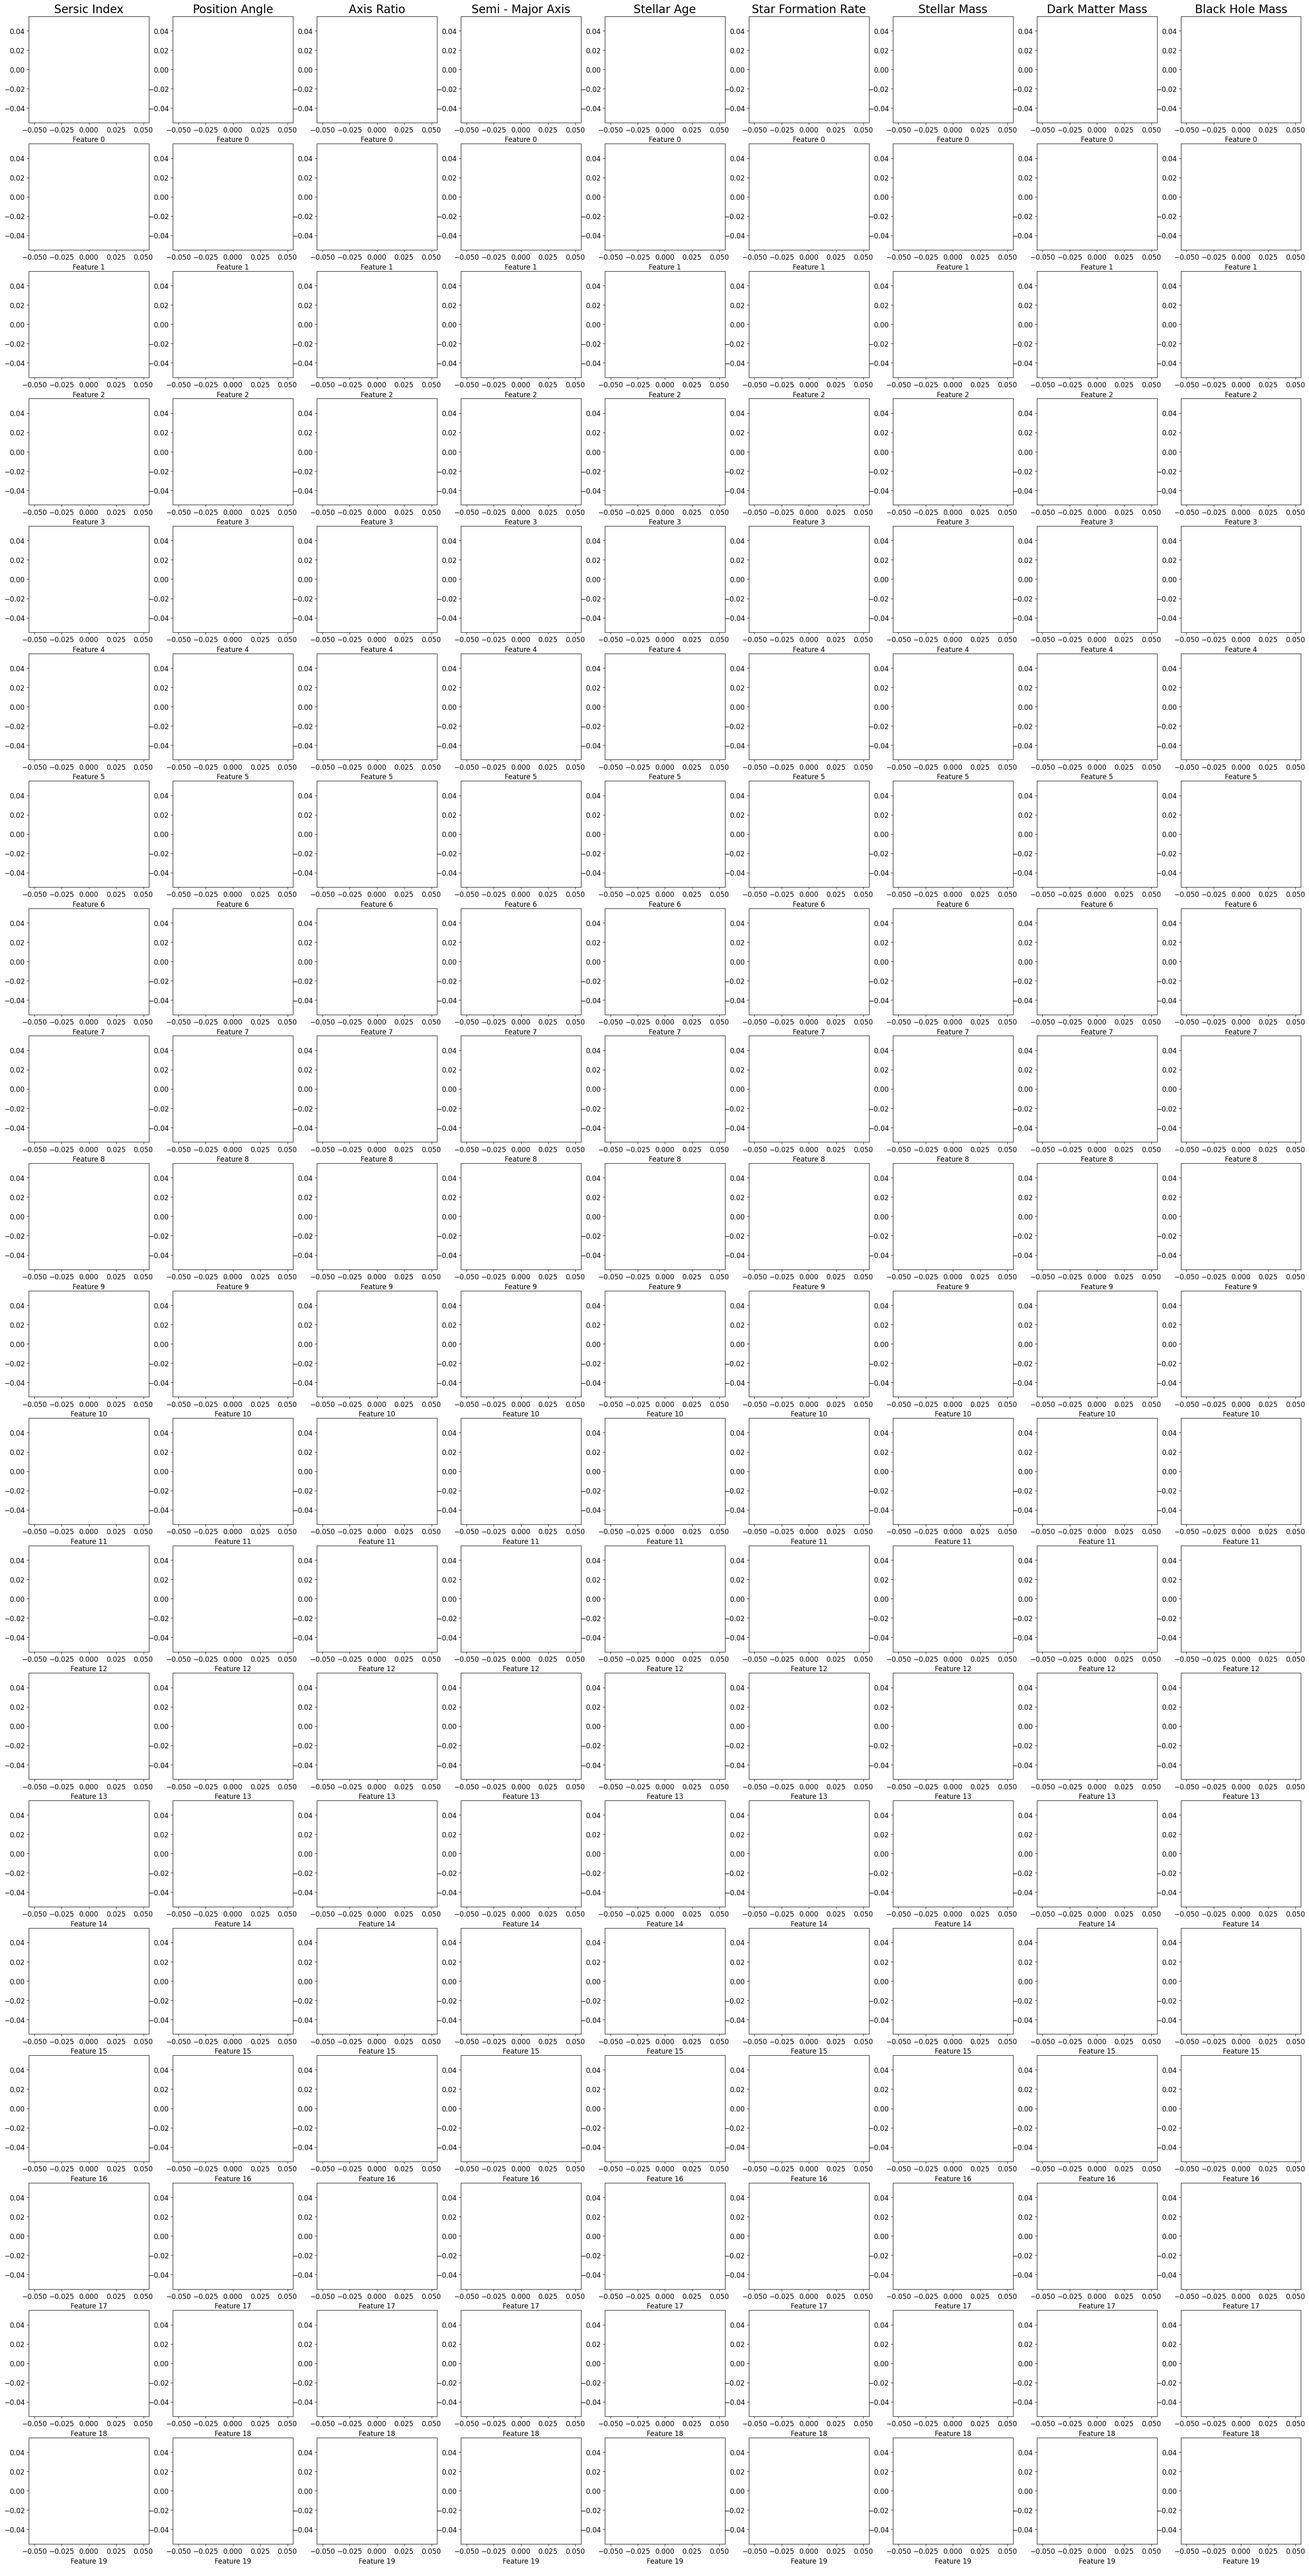
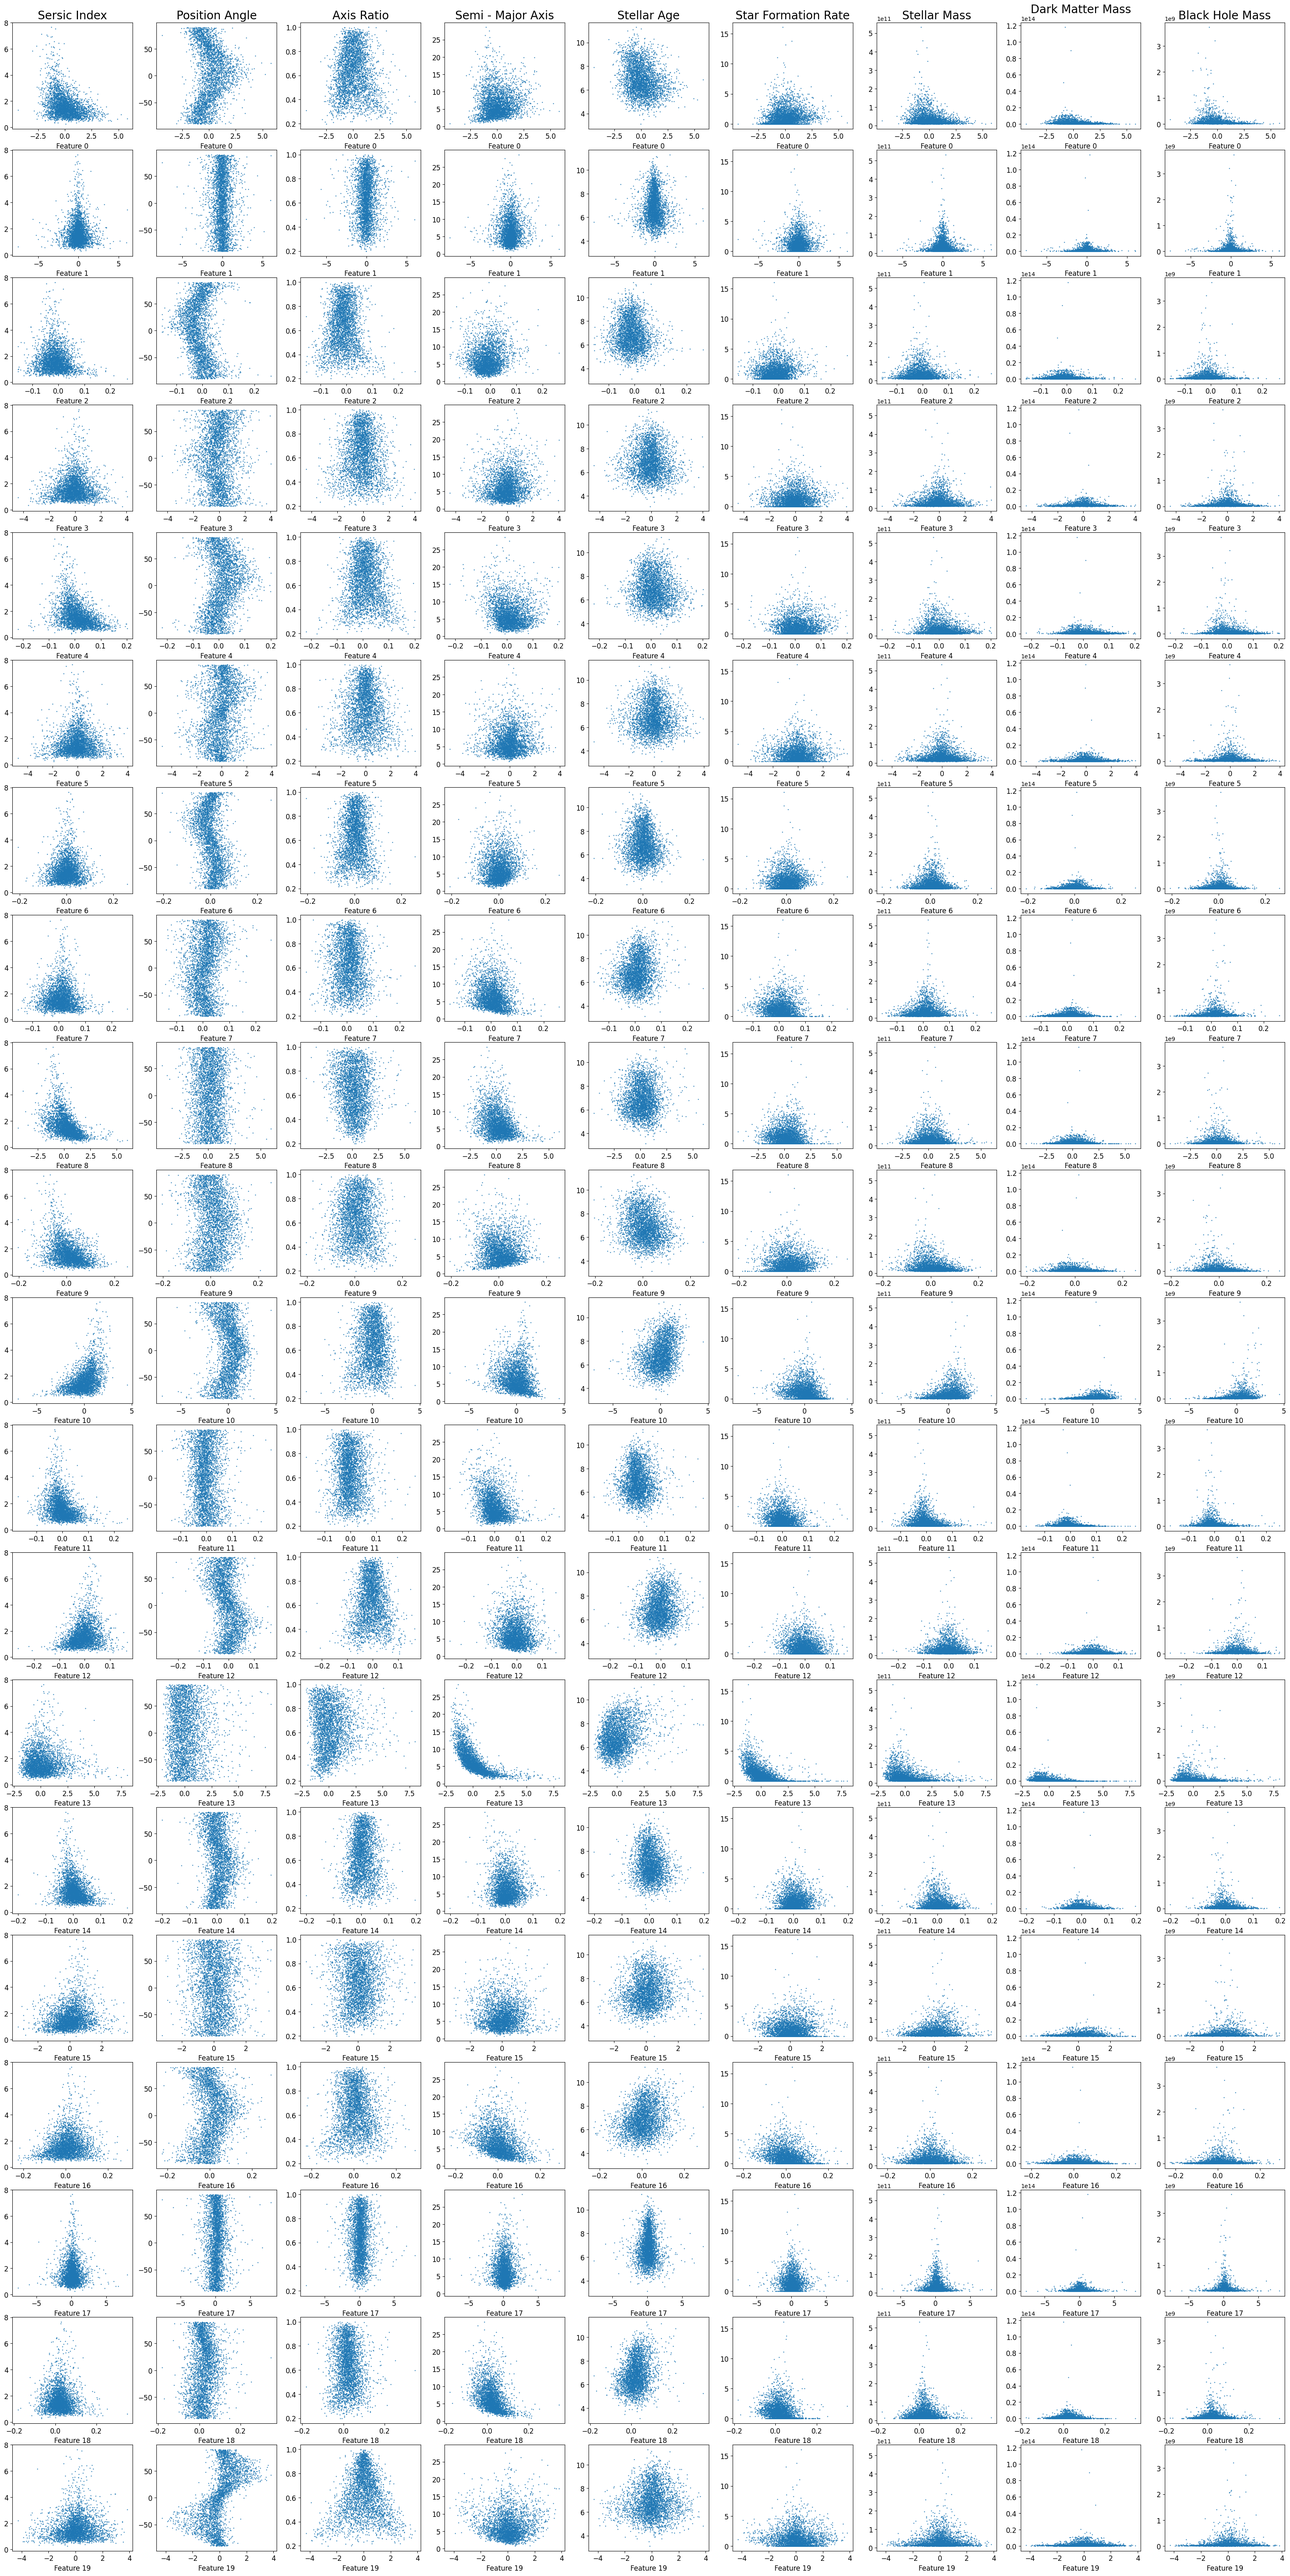
Code

diff --git a/comparison-extracted_features.py b/comparison-extracted_features.py
@@ -20,7 +20,7 @@ pd.set_option('display.width', 500)
 encoding_dim = 20
 
 # load the extracted features
-extracted_features = np.load("Variational Eagle/Extracted Features/Normalised to g/" + str(encoding_dim) + "_feature_300_epoch_features_1.npy")[0]
+extracted_features = np.load("Variational Eagle/Extracted Features/Normalised Individually/" + str(encoding_dim) + "_feature_300_epoch_features_1.npy")[0]
 extracted_features_switch = extracted_features.T
 
 print(extracted_features_switch.shape)
@@ -283,7 +283,7 @@ wrap_labels(ax, 10)
 
 
 
-plt.savefig("Variational Eagle/Correlation Plots/g_normalised" + str(encoding_dim) + "_feature_all_property_correlation_1_abs", bbox_inches='tight')
+plt.savefig("Variational Eagle/Correlation Plots/individually_normalised" + str(encoding_dim) + "_feature_all_property_correlation_1_abs", bbox_inches='tight')
 plt.show()
 
 
@@ -332,7 +332,7 @@ for i, property in enumerate(properties):
         axs[feature][i].set_ylabel(None)
         axs[feature][i].tick_params(labelsize=12)
 
-plt.savefig("Variational Eagle/Correlation Plots/scatter_g_normalised" + str(encoding_dim) + "_feature_all_property_correlation_1", bbox_inches='tight')
+plt.savefig("Variational Eagle/Correlation Plots/scatter_individually_normalised" + str(encoding_dim) + "_feature_all_property_correlation_1", bbox_inches='tight')
 # plt.savefig("Variational Eagle/Correlation Plots/scatter_" + str(encoding_dim) + "_feature_all_property_correlation_p2", bbox_inches='tight')
 plt.show()
 

diff --git a/normalisation_comparison.py b/normalisation_comparison.py
@@ -47,14 +47,14 @@ print(list(features_g.T[0]))
 
 fig, axs = plt.subplots(1, 3, figsize=(15, 5))
 
-axs[0].scatter(features_individual.T[0], all_properties["n_r"], s=0.5)
-axs[0].set_title("Normalised Individually (σ = )")
+axs[0].scatter(features_individual.T[8], all_properties["n_r"], s=0.5)
+axs[0].set_title("Normalised Individually (ρ = 0.47)")
 
 axs[1].scatter(features_r.T[17], all_properties["n_r"], s=0.5)
-axs[1].set_title("Normalised to r (σ = 0.64)")
+axs[1].set_title("Normalised to r (ρ = 0.64)")
 
 axs[2].scatter(features_g.T[19], all_properties["n_r"], s=0.5)
-axs[2].set_title("Normalised to g (σ = 0.61)")
+axs[2].set_title("Normalised to g (ρ = 0.61)")
 
 plt.savefig("Variational Eagle/Plots/normalisation_comparison_sersic", bbox_inches='tight')
 plt.show()
